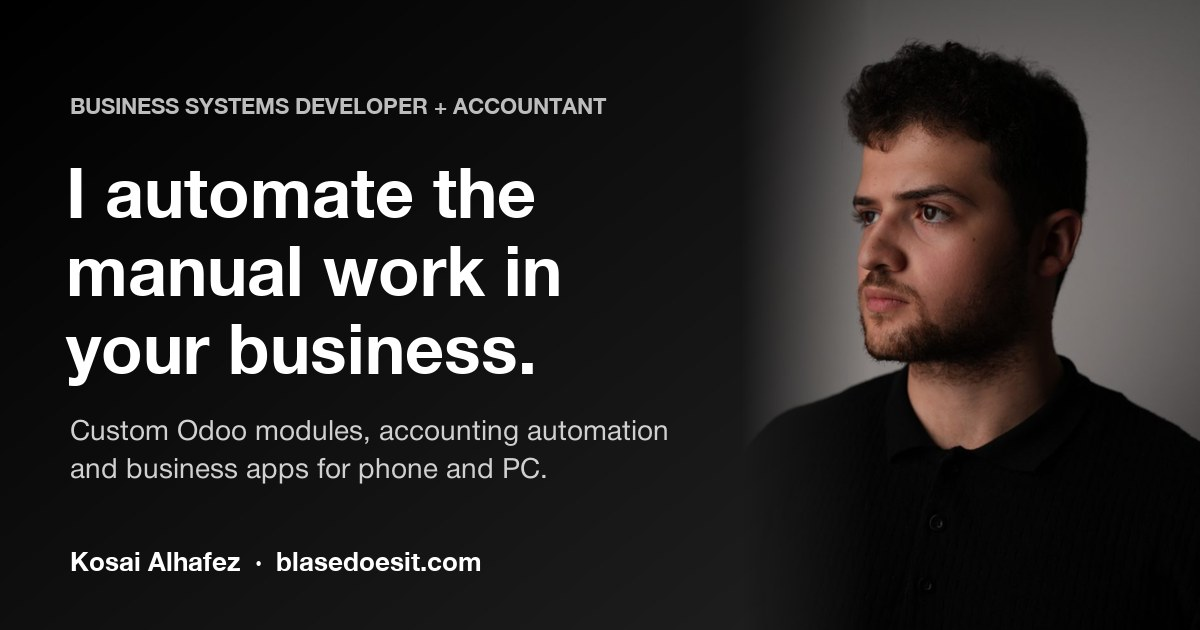
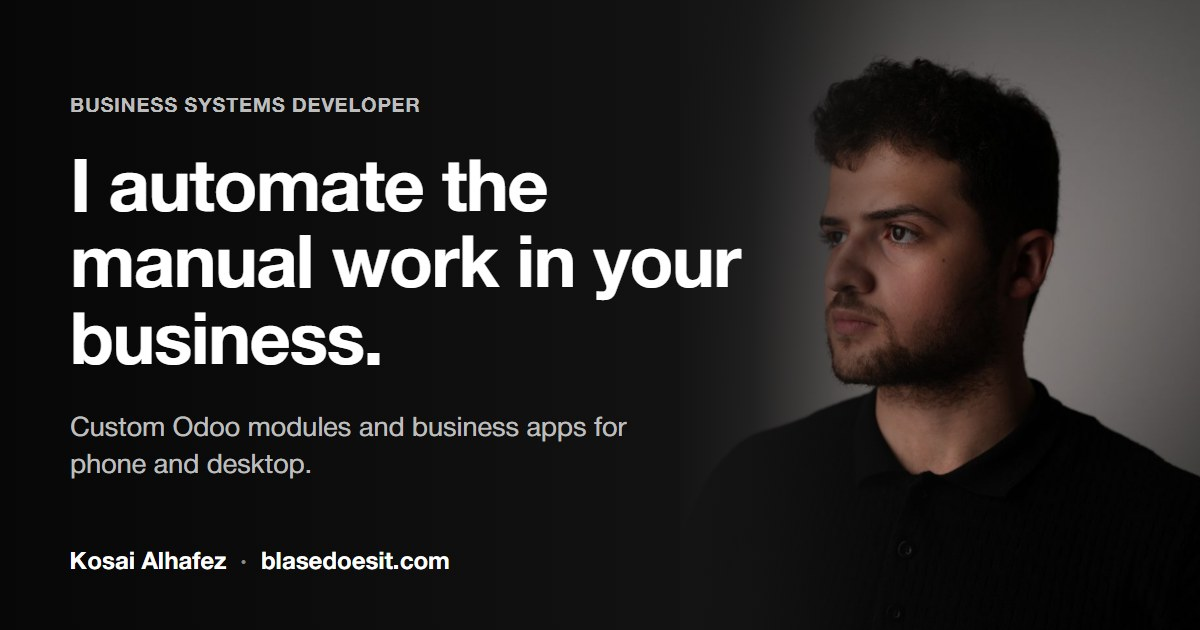
New hero stats, before/after problem cards, evening hours FAQ, invoice context, fresh link preview image

diff --git a/index.html b/index.html
@@ -7,7 +7,7 @@
 <meta name="description" content="Custom Odoo modules and business apps for phone and desktop, built by a developer who runs a company's Odoo system every day.">
 <meta property="og:title" content="Kosai Alhafez | Business systems developer">
 <meta property="og:description" content="I automate the manual work in your business: custom Odoo modules and apps for phone and desktop.">
-<meta property="og:image" content="https://blasedoesit.com/img/og.jpg">
+<meta property="og:image" content="https://blasedoesit.com/img/og.jpg?v=2">
 <meta property="og:image:width" content="1200">
 <meta property="og:image:height" content="630">
 <meta name="twitter:card" content="summary_large_image">
@@ -19,7 +19,7 @@
 <link rel="preconnect" href="https://fonts.googleapis.com">
 <link rel="preconnect" href="https://fonts.gstatic.com" crossorigin>
 <link href="https://fonts.googleapis.com/css2?family=IBM+Plex+Sans+Arabic:wght@400;500;600&family=Noto+Kufi+Arabic:wght@600;800&display=swap" rel="stylesheet">
-<link rel="stylesheet" href="style.css?v=11">
+<link rel="stylesheet" href="style.css?v=12">
 </head>
 <body>
 
@@ -57,9 +57,10 @@
       </figure>
     </div>
 
-    <div class="stats n2">
-      <div class="stat"><b>50</b><span data-i18n="s2t">employees working on the system</span></div>
-      <div class="stat"><b>800+</b><span data-i18n="s3t">equipment items tracked by serial</span></div>
+    <div class="stats n3">
+      <div class="stat"><b>80+</b><span data-i18n="s1t">rental orders a month</span></div>
+      <div class="stat"><b>1 h → 2 min</b><span data-i18n="s2t">per invoice, now generated from the order</span></div>
+      <div class="stat"><b>50</b><span data-i18n="s3t">employees clock in through Shift Guard</span></div>
     </div>
   </div>
 
@@ -68,12 +69,12 @@
       <h2 data-i18n="pain_h">Problems I've already solved</h2>
       <p class="sub" data-i18n="pain_sub">Each of these was a real problem at the company I work for. Each one is now handled by the system I built.</p>
       <div class="cards pain">
-        <div class="card"><p data-i18n="pain1">Attendance is tracked in a WhatsApp group, and someone copies the times out by hand.</p></div>
-        <div class="card"><p data-i18n="pain2">Invoices and receipts are put together in Word or Excel, one at a time.</p></div>
-        <div class="card"><p data-i18n="pain3">Nobody knows exactly where each item is, who has it, or when it comes back.</p></div>
-        <div class="card"><p data-i18n="pain4">Customer requests get lost between chats, calls and notebooks.</p></div>
-        <div class="card"><p data-i18n="pain5">Revenue reports for owners and investors take days to prepare.</p></div>
-        <div class="card"><p data-i18n="pain6">Odoo is installed, but your team works around it because it doesn't fit how you work.</p></div>
+        <div class="card"><p class="was" data-i18n="pain1">Attendance is tracked in a WhatsApp group, and someone copies the times out by hand.</p><p class="now"><i aria-hidden="true">→</i> <span data-i18n="pain1a">GPS check-in in Odoo, with reminders and overtime approval</span></p></div>
+        <div class="card"><p class="was" data-i18n="pain2">Invoices and receipts are put together in Word or Excel, one at a time.</p><p class="now"><i aria-hidden="true">→</i> <span data-i18n="pain2a">Printed from the order in 2 minutes, amount in Arabic words included</span></p></div>
+        <div class="card"><p class="was" data-i18n="pain3">Nobody knows exactly where each item is, who has it, or when it comes back.</p><p class="now"><i aria-hidden="true">→</i> <span data-i18n="pain3a">Every serial shows its status, location and return date</span></p></div>
+        <div class="card"><p class="was" data-i18n="pain4">Customer requests get lost between chats, calls and notebooks.</p><p class="now"><i aria-hidden="true">→</i> <span data-i18n="pain4a">Every request becomes an order in Rentory, none lost since launch</span></p></div>
+        <div class="card"><p class="was" data-i18n="pain5">Revenue reports for owners and investors take days to prepare.</p><p class="now"><i aria-hidden="true">→</i> <span data-i18n="pain5a">Live revenue reports in Odoo, one click away</span></p></div>
+        <div class="card"><p class="was" data-i18n="pain6">Odoo is installed, but your team works around it because it doesn't fit how you work.</p><p class="now"><i aria-hidden="true">→</i> <span data-i18n="pain6a">Custom modules built around how the team already works</span></p></div>
       </div>
     </div>
   </section>
@@ -86,12 +87,11 @@
           <p class="sub" style="margin-bottom:0" data-i18n="work_p">A camera and media equipment rental house in Damascus, part of Sokoon Holding. Since September 2025 I've run their Odoo 19 Enterprise system, and written their custom modules. I also have 1 year of experience in accounting, so invoices, vouchers and reports come out the way the finance team expects. Everything below is live and used every day.</p>
         </div>
         <div class="minis">
-          <div><b>80+</b><span data-i18n="m1">rental orders a month</span></div>
           <div><b>120+</b><span data-i18n="m2">invoices a month</span></div>
           <div><b>70+</b><span data-i18n="m3">active customers</span></div>
           <div><b>420+</b><span data-i18n="m4">equipment groups</span></div>
           <div><b>800+</b><span data-i18n="m5">items tracked by serial</span></div>
-          <div><b>8</b><span data-i18n="m6">office users every day</span></div>
+          <div><b>8</b><span data-i18n="m6">office staff run orders and invoices in Odoo daily</span></div>
         </div>
       </div>
 
@@ -115,7 +115,7 @@
           <div class="pbody">
             <span class="kind" data-i18n="pc1k">Business documents · Arabic</span>
             <h3 data-i18n="pc1t">Invoices and vouchers</h3>
-            <p data-i18n="pc1d">Arabic invoices and vouchers printed straight from Odoo.</p>
+            <p data-i18n="pc1d">Generated from the order with the amount in Arabic words. No formatting or retyping by hand.</p>
             <span class="pres" data-i18n="pc1r">1 hour → 2 minutes per document</span>
           </div>
         </a>
@@ -222,7 +222,7 @@
       <details><summary data-i18n="q1">Which Odoo versions do you work with?</summary><p data-i18n="a1">Mainly Odoo 17, 18 and 19, Community or Enterprise, on Odoo.sh or your own server. I've upgraded a live company from 17 to 19.</p></details>
       <details><summary data-i18n="q2">We don't use Odoo. Can you still help?</summary><p data-i18n="a2">Yes. I can build a standalone app for phone and desktop, or help you decide whether Odoo is a good fit before you spend money on it.</p></details>
       <details><summary data-i18n="q3">Who owns the code?</summary><p data-i18n="a3">You do. You get the full source code, installed on your system or your GitHub.</p></details>
-      <details><summary data-i18n="q4">When are you available?</summary><p data-i18n="a4">I work on client projects every day from 6 PM Damascus time (7 PM in Dubai, 6 PM in Riyadh).</p></details>
+      <details><summary data-i18n="q4">When are you available?</summary><p data-i18n="a4">Send me the problem during your workday. I work on it that evening, and you see progress the next morning. I'm available for calls from 6 PM to midnight Damascus time (7 PM to 1 AM in Dubai, the same as Riyadh).</p></details>
       <details><summary data-i18n="q5">How do we pay?</summary><p data-i18n="a5">By international bank transfer, in stages. Tell me what works for you and we'll sort it out on the call.</p></details>
       <details><summary data-i18n="q6">Do you speak Arabic?</summary><p data-i18n="a6">Arabic is my native language and I work in English every day. Documents, apps and training can be in either or both.</p></details>
     </div>
@@ -264,19 +264,19 @@ window.AR = {
   cta_call:"احجز مكالمة مجانية 15 دقيقة", cta_work:"شاهد ما بنيته",
   avail:"متاح للعملاء في الخليج وحول العالم، بالعربية والإنجليزية.",
   cap_name:"قصي الحافظ", cap_role:"مطوّر أنظمة أعمال، سكون لتأجير المعدات",
-  s2t:"موظفاً يعملون على النظام",
-  s3t:"قطعة معدات مُتتبَّعة بالرقم التسلسلي",
+  s1t:"طلب تأجير شهرياً", s2t:"لكل فاتورة، تُنشأ الآن من الطلب",
+  s3t:"موظفاً يسجّلون حضورهم عبر حارس الدوام",
   pain_h:"مشاكل حللتها بالفعل",
   pain_sub:"كل واحدة من هذه كانت مشكلة حقيقية في الشركة التي أعمل بها، وكلها اليوم يتولاها النظام الذي بنيته.",
-  pain1:"الدوام يُسجَّل في مجموعة واتساب، وأحدهم ينسخ الأوقات يدوياً.",
-  pain2:"الفواتير والإيصالات تُجهَّز على Word أو Excel، واحدة تلو الأخرى.",
-  pain3:"لا أحد يعرف بالضبط أين كل قطعة، ومع من، ومتى تعود.",
-  pain4:"طلبات العملاء تضيع بين المحادثات والمكالمات والدفاتر.",
-  pain5:"تقارير الإيرادات للمالكين والمستثمرين تأخذ أياماً لتجهيزها.",
-  pain6:"Odoo مُثبَّت، لكن فريقك يتحايل عليه لأنه لا يناسب طريقة عملكم.",
+  pain1:"الدوام يُسجَّل في مجموعة واتساب، وأحدهم ينسخ الأوقات يدوياً.", pain1a:"تسجيل حضور بـ GPS في Odoo، مع تذكيرات وموافقة على الإضافي",
+  pain2:"الفواتير والإيصالات تُجهَّز على Word أو Excel، واحدة تلو الأخرى.", pain2a:"تُطبع من الطلب خلال دقيقتين، مع المبلغ بالحروف العربية",
+  pain3:"لا أحد يعرف بالضبط أين كل قطعة، ومع من، ومتى تعود.", pain3a:"كل رقم تسلسلي يُظهر حالته وموقعه وموعد عودته",
+  pain4:"طلبات العملاء تضيع بين المحادثات والمكالمات والدفاتر.", pain4a:"كل طلب يصبح طلباً في Rentory، ولم يضع أي طلب منذ الإطلاق",
+  pain5:"تقارير الإيرادات للمالكين والمستثمرين تأخذ أياماً لتجهيزها.", pain5a:"تقارير إيرادات حيّة في Odoo بنقرة واحدة",
+  pain6:"Odoo مُثبَّت، لكن فريقك يتحايل عليه لأنه لا يناسب طريقة عملكم.", pain6a:"وحدات مخصصة مبنية حول طريقة عمل الفريق",
   work_h:"أين أعمل: سكون لتأجير المعدات",
   work_p:"شركة لتأجير الكاميرات والمعدات الإعلامية في دمشق، تابعة لسكون القابضة. منذ أيلول 2025 أدير نظام Odoo 19 Enterprise لديهم وأكتب وحداتهم المخصصة. ولدي سنة خبرة في المحاسبة، لذلك تخرج الفواتير والسندات والتقارير كما يتوقعها الفريق المالي. كل ما يلي يعمل فعلياً ويُستخدم يومياً.",
-  m1:"طلب تأجير شهرياً", m2:"فاتورة شهرياً", m3:"عميلاً نشطاً", m4:"مجموعة معدات", m5:"قطعة مُتتبَّعة بالرقم التسلسلي", m6:"مستخدمين في المكتب يومياً",
+  m2:"فاتورة شهرياً", m3:"عميلاً نشطاً", m4:"مجموعة معدات", m5:"قطعة مُتتبَّعة بالرقم التسلسلي", m6:"موظفين في المكتب يديرون الطلبات والفواتير في Odoo يومياً",
   pg_h:"ما بنيته هناك",
   /* project-cards:start */
   sw_h:"أعمال أصغر",
@@ -288,7 +288,7 @@ window.AR = {
   lic_closed_src:"مغلق المصدر",
   pc1k:"مستندات أعمال · بالعربية",
   pc1t:"الفواتير والسندات",
-  pc1d:"فواتير وسندات عربية تُطبع مباشرة من Odoo.",
+  pc1d:"تُنشأ من الطلب مع المبلغ بالحروف العربية، دون تنسيق أو إعادة كتابة يدوية.",
   pc1r:"ساعة ← دقيقتان لكل مستند",
   lic_open_src:"مفتوح المصدر",
   pc2k:"إضافة لتطبيق الحضور في Odoo · موارد بشرية",
@@ -337,7 +337,7 @@ window.AR = {
   q1:"مع أي إصدارات Odoo تعمل؟", a1:"أساساً Odoo 17 و18 و19، نسخة Community أو Enterprise، على Odoo.sh أو على خادمك. وقد رقّيت شركة قائمة من الإصدار 17 إلى 19.",
   q2:"لا نستخدم Odoo. هل يمكنك المساعدة؟", a2:"نعم. أستطيع بناء تطبيق مستقل للهاتف وسطح المكتب، أو مساعدتك في تقرير ما إذا كان Odoo مناسباً قبل أن تنفق عليه.",
   q3:"لمن يعود الكود؟", a3:"لك. تحصل على الكود المصدري كاملاً، مثبتاً على نظامك أو على GitHub الخاص بك.",
-  q4:"متى تكون متاحاً؟", a4:"أعمل على مشاريع العملاء يومياً من الساعة 6 مساءً بتوقيت دمشق (7 مساءً في دبي، 6 مساءً في الرياض).",
+  q4:"متى تكون متاحاً؟", a4:"أرسل لي المشكلة خلال يوم عملك، فأعمل عليها مساءً وترى التقدم صباح اليوم التالي. متاح للمكالمات من 6 مساءً حتى منتصف الليل بتوقيت دمشق (7 مساءً حتى 1 فجراً في دبي، ونفس التوقيت في الرياض).",
   q5:"كيف ندفع؟", a5:"بتحويل بنكي دولي، على مراحل. أخبرني بما يناسبك ونرتّب الأمر في المكالمة.",
   q6:"هل تتحدث العربية؟", a6:"العربية لغتي الأم، وأعمل بالإنجليزية يومياً. المستندات والتطبيقات والتدريب بأي منهما أو بكليهما.",
   con_h:"أخبرني ما الذي يُبطئ عملك.",
@@ -346,6 +346,6 @@ window.AR = {
   foot:"© 2026 محمد قصي الحافظ"
 };
 </script>
-<script src="i18n.js?v=11"></script>
+<script src="i18n.js?v=12"></script>
 </body>
 </html>

diff --git a/projects/invoices/index.html b/projects/invoices/index.html
@@ -7,13 +7,13 @@
 <meta name="description" content="Arabic invoices and receipt or payment vouchers that print straight from Odoo, in the company&#x27;s own design.">
 <meta property="og:title" content="Invoices and vouchers | Kosai Alhafez">
 <meta property="og:description" content="Arabic invoices and receipt or payment vouchers that print straight from Odoo, in the company&#x27;s own design.">
-<meta property="og:image" content="https://blasedoesit.com/img/og.jpg">
+<meta property="og:image" content="https://blasedoesit.com/img/og.jpg?v=2">
 <link rel="icon" href="../../favicon.svg" type="image/svg+xml">
 <link rel="icon" href="../../favicon.png" type="image/png" sizes="64x64">
 <link rel="preconnect" href="https://fonts.googleapis.com">
 <link rel="preconnect" href="https://fonts.gstatic.com" crossorigin>
 <link href="https://fonts.googleapis.com/css2?family=IBM+Plex+Sans+Arabic:wght@400;500;600&family=Noto+Kufi+Arabic:wght@600;800&display=swap" rel="stylesheet">
-<link rel="stylesheet" href="../../style.css?v=11">
+<link rel="stylesheet" href="../../style.css?v=12">
 <script>document.documentElement.classList.add("js")</script>
 </head>
 <body>
@@ -34,7 +34,7 @@
     <h1 class="page-h1" data-i18n="k20">Invoices and vouchers</h1>
     <p class="lead" data-i18n="k21">Arabic invoices and receipt or payment vouchers that print straight from Odoo, in the company&#x27;s own design.</p>
     
-    <div class="stats n3"><div class="stat"><b>1 h → 2 min</b><span data-i18n="k1">per invoice or voucher</span></div><div class="stat"><b>120+</b><span data-i18n="k2">invoices a month</span></div><div class="stat"><b>A5</b><span data-i18n="k3">matches the existing stationery</span></div></div>
+    <div class="stats n3"><div class="stat"><b>1 h → 2 min</b><span data-i18n="k1">per invoice or voucher, generated from the order instead of formatted and retyped by hand</span></div><div class="stat"><b>120+</b><span data-i18n="k2">invoices a month</span></div><div class="stat"><b>A5</b><span data-i18n="k3">matches the existing stationery</span></div></div>
   </div>
 
   <section>
@@ -110,7 +110,7 @@ window.AR = {
 "u_need_p": "أخبرني ما الذي يفعله فريقك يدوياً اليوم. مكالمة 15 دقيقة كافية لنعرف إن كان بإمكاني أتمتته.",
 "u_need_btn": "احجز مكالمة مجانية 15 دقيقة",
 "u_foot": "© 2026 محمد قصي الحافظ",
-"k1": "لكل فاتورة أو سند",
+"k1": "لكل فاتورة أو سند، تُنشأ من الطلب بدلاً من تنسيقها وإعادة كتابتها يدوياً",
 "k2": "فاتورة شهرياً",
 "k3": "يطابق القرطاسية الحالية",
 "k4": "الفواتير تُطبع من طلب التأجير بتصميم الشركة",
@@ -136,7 +136,7 @@ window.AR = {
 "k22": "حارس الدوام"
 };
 </script>
-<script src="../../i18n.js?v=11"></script>
-<script src="../../anim.js?v=11"></script>
+<script src="../../i18n.js?v=12"></script>
+<script src="../../anim.js?v=12"></script>
 </body>
 </html>

diff --git a/projects/shift-guard/index.html b/projects/shift-guard/index.html
@@ -7,13 +7,13 @@
 <meta name="description" content="GPS-verified attendance with personal shifts, reminders and overtime approval, built on top of Odoo Attendances.">
 <meta property="og:title" content="Attendance Shift Guard | Kosai Alhafez">
 <meta property="og:description" content="GPS-verified attendance with personal shifts, reminders and overtime approval, built on top of Odoo Attendances.">
-<meta property="og:image" content="https://blasedoesit.com/img/og.jpg">
+<meta property="og:image" content="https://blasedoesit.com/img/og.jpg?v=2">
 <link rel="icon" href="../../favicon.svg" type="image/svg+xml">
 <link rel="icon" href="../../favicon.png" type="image/png" sizes="64x64">
 <link rel="preconnect" href="https://fonts.googleapis.com">
 <link rel="preconnect" href="https://fonts.gstatic.com" crossorigin>
 <link href="https://fonts.googleapis.com/css2?family=IBM+Plex+Sans+Arabic:wght@400;500;600&family=Noto+Kufi+Arabic:wght@600;800&display=swap" rel="stylesheet">
-<link rel="stylesheet" href="../../style.css?v=11">
+<link rel="stylesheet" href="../../style.css?v=12">
 <script>document.documentElement.classList.add("js")</script>
 </head>
 <body>
@@ -137,7 +137,7 @@ window.AR = {
 "k23": "تحليلات الإيرادات"
 };
 </script>
-<script src="../../i18n.js?v=11"></script>
-<script src="../../anim.js?v=11"></script>
+<script src="../../i18n.js?v=12"></script>
+<script src="../../anim.js?v=12"></script>
 </body>
 </html>

diff --git a/projects/rentory/index.html b/projects/rentory/index.html
@@ -7,13 +7,13 @@
 <meta name="description" content="A rental and asset management app built inside Odoo 19 for a camera and media equipment rental house.">
 <meta property="og:title" content="Rentory | Kosai Alhafez">
 <meta property="og:description" content="A rental and asset management app built inside Odoo 19 for a camera and media equipment rental house.">
-<meta property="og:image" content="https://blasedoesit.com/img/og.jpg">
+<meta property="og:image" content="https://blasedoesit.com/img/og.jpg?v=2">
 <link rel="icon" href="../../favicon.svg" type="image/svg+xml">
 <link rel="icon" href="../../favicon.png" type="image/png" sizes="64x64">
 <link rel="preconnect" href="https://fonts.googleapis.com">
 <link rel="preconnect" href="https://fonts.gstatic.com" crossorigin>
 <link href="https://fonts.googleapis.com/css2?family=IBM+Plex+Sans+Arabic:wght@400;500;600&family=Noto+Kufi+Arabic:wght@600;800&display=swap" rel="stylesheet">
-<link rel="stylesheet" href="../../style.css?v=11">
+<link rel="stylesheet" href="../../style.css?v=12">
 <script>document.documentElement.classList.add("js")</script>
 </head>
 <body>
@@ -144,7 +144,7 @@ window.AR = {
 "k30": "الفواتير والسندات"
 };
 </script>
-<script src="../../i18n.js?v=11"></script>
-<script src="../../anim.js?v=11"></script>
+<script src="../../i18n.js?v=12"></script>
+<script src="../../anim.js?v=12"></script>
 </body>
 </html>

diff --git a/projects/analytics/index.html b/projects/analytics/index.html
@@ -7,13 +7,13 @@
 <meta name="description" content="Revenue and most-rented reports by month, year, category, customer and serial, inside Odoo.">
 <meta property="og:title" content="Revenue analytics | Kosai Alhafez">
 <meta property="og:description" content="Revenue and most-rented reports by month, year, category, customer and serial, inside Odoo.">
-<meta property="og:image" content="https://blasedoesit.com/img/og.jpg">
+<meta property="og:image" content="https://blasedoesit.com/img/og.jpg?v=2">
 <link rel="icon" href="../../favicon.svg" type="image/svg+xml">
 <link rel="icon" href="../../favicon.png" type="image/png" sizes="64x64">
 <link rel="preconnect" href="https://fonts.googleapis.com">
 <link rel="preconnect" href="https://fonts.gstatic.com" crossorigin>
 <link href="https://fonts.googleapis.com/css2?family=IBM+Plex+Sans+Arabic:wght@400;500;600&family=Noto+Kufi+Arabic:wght@600;800&display=swap" rel="stylesheet">
-<link rel="stylesheet" href="../../style.css?v=11">
+<link rel="stylesheet" href="../../style.css?v=12">
 <script>document.documentElement.classList.add("js")</script>
 </head>
 <body>
@@ -132,7 +132,7 @@ window.AR = {
 "k18": "Rentory"
 };
 </script>
-<script src="../../i18n.js?v=11"></script>
-<script src="../../anim.js?v=11"></script>
+<script src="../../i18n.js?v=12"></script>
+<script src="../../anim.js?v=12"></script>
 </body>
 </html>

diff --git a/style.css b/style.css
@@ -125,6 +125,11 @@ p{max-width:68ch}
 .pain .card::before{content:"";position:absolute;inset-block:0;inset-inline-start:0;width:4px;background:linear-gradient(180deg,#fff,#6b6b6b);transition:width .3s var(--ease)}
 .pain .card:hover::before{width:7px}
 .pain .card p{color:var(--ink);margin:0}
+.pain .card p.was{color:var(--muted)}
+.pain .card p.now{margin-top:.6rem;font-weight:700;text-align:start}
+.pain .card p.now i{font-style:normal;display:inline-block}
+html[dir="rtl"] .pain .card p.now i{transform:scaleX(-1)}
+.minis div:last-child:nth-child(odd){grid-column:1/-1}
 
 /* case study */
 .client{display:grid;grid-template-columns:1.3fr 1fr;gap:2.5rem;align-items:start;margin-bottom:2.5rem}

diff --git a/other/index.html b/other/index.html
@@ -10,7 +10,7 @@
 <link rel="preconnect" href="https://fonts.googleapis.com">
 <link rel="preconnect" href="https://fonts.gstatic.com" crossorigin>
 <link href="https://fonts.googleapis.com/css2?family=IBM+Plex+Sans+Arabic:wght@400;500;600&family=Noto+Kufi+Arabic:wght@600;800&display=swap" rel="stylesheet">
-<link rel="stylesheet" href="../style.css?v=11">
+<link rel="stylesheet" href="../style.css?v=12">
 </head>
 <body>
 
@@ -69,6 +69,6 @@ window.AR = {
   foot:"© 2026 محمد قصي الحافظ"
 };
 </script>
-<script src="../i18n.js?v=11"></script>
+<script src="../i18n.js?v=12"></script>
 </body>
 </html>

diff --git a/_build/build_projects.py b/_build/build_projects.py
@@ -6,7 +6,7 @@ Each text is (english, arabic). Edit here, re-run, commit the generated pages.
 """
 import html, json, os
 
-V = "11"  # bump to bust browser caches of style.css / i18n.js
+V = "12"  # bump to bust browser caches of style.css / i18n.js
 
 PROJECTS = [
   {
@@ -61,10 +61,10 @@ PROJECTS = [
     "title": ("Invoices and vouchers", "الفواتير والسندات"),
     "summary": ("Arabic invoices and receipt or payment vouchers that print straight from Odoo, in the company's own design.",
                 "فواتير عربية وسندات قبض ودفع تُطبع مباشرة من Odoo بتصميم الشركة."),
-    "card": ("Arabic invoices and vouchers printed straight from Odoo.", "فواتير وسندات عربية تُطبع مباشرة من Odoo."),
+    "card": ("Generated from the order with the amount in Arabic words. No formatting or retyping by hand.", "تُنشأ من الطلب مع المبلغ بالحروف العربية، دون تنسيق أو إعادة كتابة يدوية."),
     "card_result": ("1 hour → 2 minutes per document", "ساعة ← دقيقتان لكل مستند"),
     "thumb": "voucher.webp",
-    "stats": [("1 h → 2 min", ("per invoice or voucher", "لكل فاتورة أو سند")),
+    "stats": [("1 h → 2 min", ("per invoice or voucher, generated from the order instead of formatted and retyped by hand", "لكل فاتورة أو سند، تُنشأ من الطلب بدلاً من تنسيقها وإعادة كتابتها يدوياً")),
               ("120+", ("invoices a month", "فاتورة شهرياً")),
               ("A5", ("matches the existing stationery", "يطابق القرطاسية الحالية"))],
     "before": [("Open a Word or Excel template", "فتح قالب Word أو Excel"),
@@ -280,7 +280,7 @@ def build(proj, nxt):
 <meta name="description" content="{e(proj["summary"][0])}">
 <meta property="og:title" content="{e(title_en)} | Kosai Alhafez">
 <meta property="og:description" content="{e(proj["summary"][0])}">
-<meta property="og:image" content="https://blasedoesit.com/img/og.jpg">
+<meta property="og:image" content="https://blasedoesit.com/img/og.jpg?v=2">
 <link rel="icon" href="../../favicon.svg" type="image/svg+xml">
 <link rel="icon" href="../../favicon.png" type="image/png" sizes="64x64">
 <link rel="preconnect" href="https://fonts.googleapis.com">
